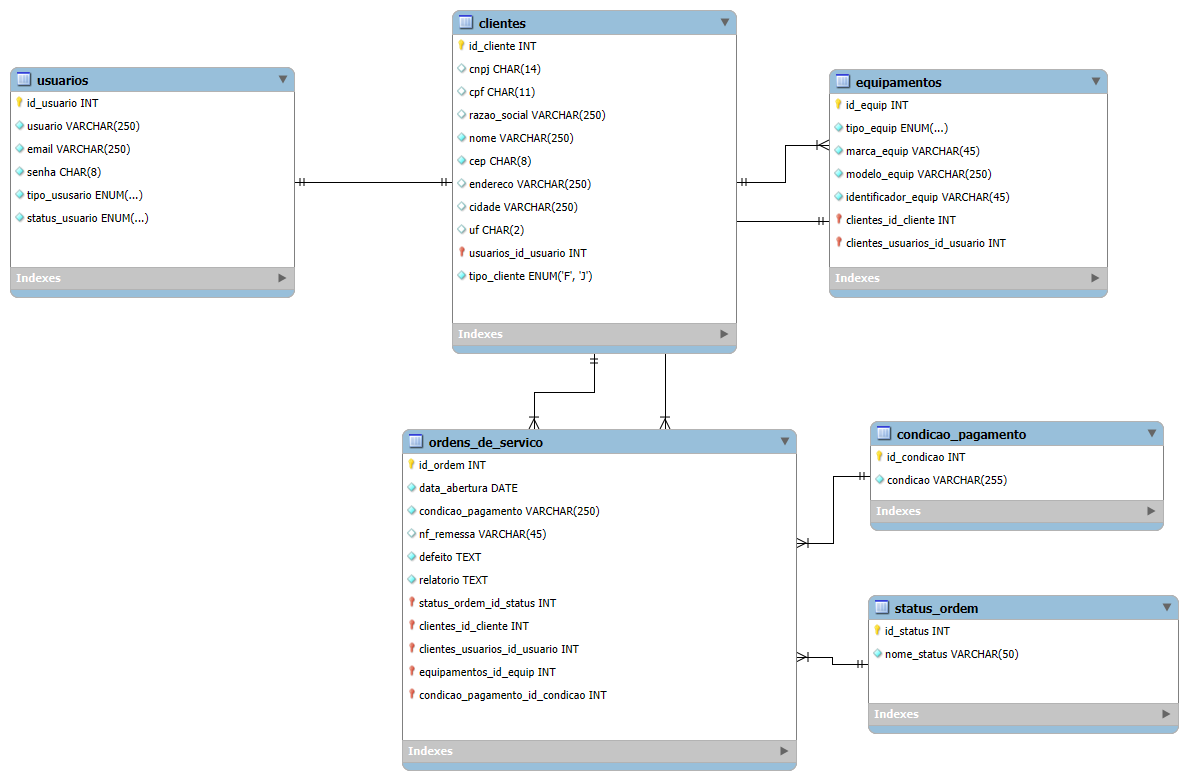
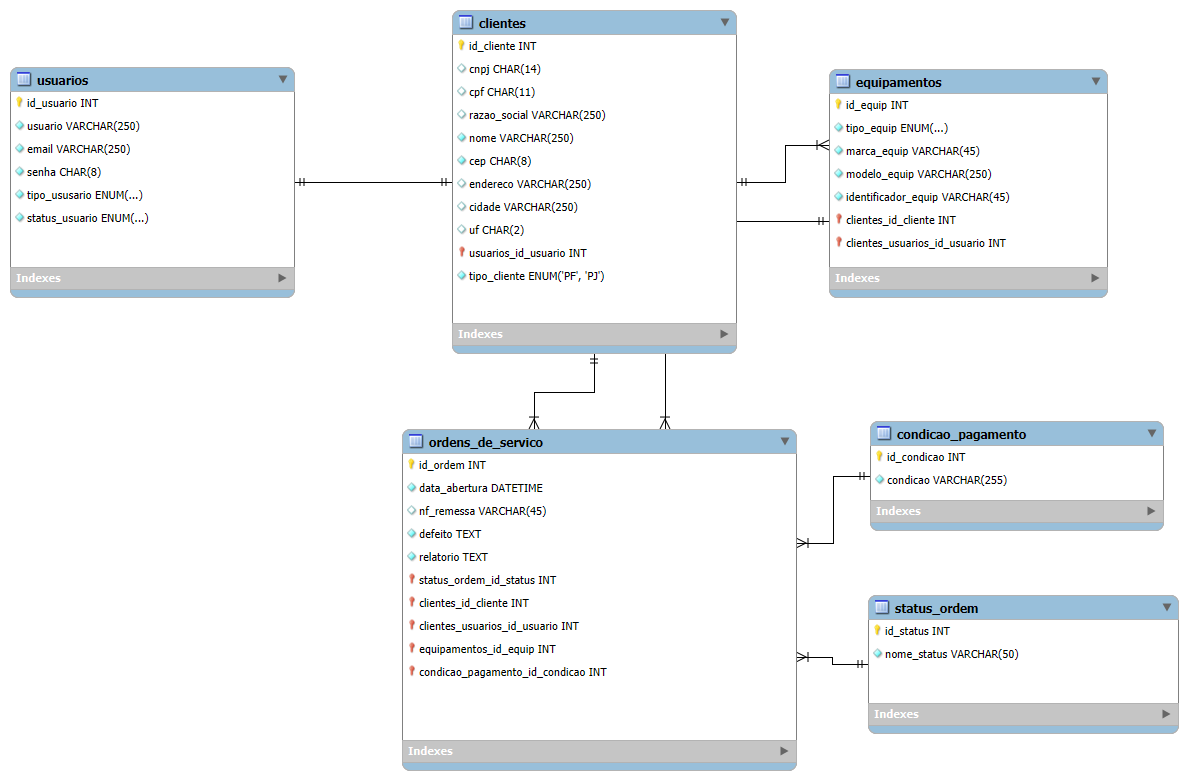
Commit 14: Inicializacao da Rota de Ordens de Servico: POST e updates no banco

Changed region(s): [[0.3426, 0.6154, 0.5295, 0.9231], [0.4672, 0.3385, 0.4983, 0.3692]]

diff --git a/src/routes/statusOrdem.js b/src/routes/statusOrdem.js
@@ -6,5 +6,189 @@ const {pool} = require(`../config/db`);
 
 const router = express.Router();
 
+/*
+CREATE TABLE status_ordem (
+	id_status_ordem INT AUTO_INCREMENT NOT NULL,
+    nome_status VARCHAR(250) NOT NULL UNIQUE,
+    
+    PRIMARY KEY (id_status_ordem)
+);
+*/
+
+//-----------------------------------------------------------------------------------------------------------------------------------
+
+router.post(`/`, async (req, res) => {
+    const {nome_status} = req.body;
+    
+    try{
+        if(nome_status.trim() === ``){
+            return res.status(400).json({error: `O campo 'Nome Status' é obrigatório.`});
+        }
+
+        await pool.execute(`INSERT INTO status_ordem (nome_status) VALUES (?)`, [nome_status]);
+        return res.status(201).json({message: `Status de ordem criado com sucesso.`});
+        
+    }catch(error){
+        console.error(`Erro ao criar status de ordem:`, error);
+        return res.status(500).json({error: `Erro ao criar status de ordem.`});
+    }
+});
+
+//-----------------------------------------------------------------------------------------------------------------------------------
+
+router.get(`/`, async (req, res) => {
+    try{
+        const [result] = await pool.execute(`SELECT * FROM status_ordem`);
+
+        if(result.length === 0){
+            return res.status(404).json({error: `Nenhum status de ordem encontrado.`});
+        }
+
+        return res.status(200).json(result);
+
+    }catch(error){
+        console.error(`Erro ao listar status de ordem:`, error);
+        return res.status(500).json({error: `Erro ao listar status de ordem.`});
+    }
+});
+
+router.get(`/:id`, async (req, res) => {
+    const {id} = req.params;
+    
+    try{
+        const [result] = await pool.execute(`SELECT * FROM status_ordem WHERE id_status_ordem = ?`, [id]);
+        
+        if(result.length === 0){
+            return res.status(404).json({error: `Nenhum status de ordem com id ${id} encontrado.`});
+        }
+
+        return res.status(200).json(result);
+
+    }catch(error){
+        console.error(`Erro ao listar status de ordem:`, error);
+        return res.status(500).json({error: `Erro ao listar status de ordem.`});
+    }
+});
+
+router.get(`/nome-status/:nome`, async (req, res) => {
+    const {nome} = req.params;
+    
+    try{
+        const [result] = await pool.execute(`SELECT * FROM status_ordem WHERE nome_status = ?`, [nome]);
+        
+        if(result.length === 0){
+            return res.status(404).json({error: `Nenhum status de ordem com nome ${nome} encontrado.`});
+        }
+
+        return res.status(200).json(result);
+
+    }catch(error){
+        console.error(`Erro ao listar status de ordem:`, error);
+        return res.status(500).json({error: `Erro ao listar status de ordem.`});
+    }
+});
+
+//-----------------------------------------------------------------------------------------------------------------------------------
+
+router.delete(`/deletar-status-id/:id`, async (req, res) => {
+    const {id} = req.params;
+    
+    try{
+        const [result] = await pool.execute(`SELECT * FROM status_ordem WHERE id_status_ordem = ?`, [id]);
+        
+        if(result.length === 0){
+            return res.status(404).json({error: `Nenhum status de ordem com id ${id} encontrado.`});
+        }
+
+        await pool.execute(`DELETE FROM status_ordem WHERE id_status_ordem = ?`, [id]);
+
+        return res.status(200).json({message: `Status de ordem deletado com sucesso.`});
+
+    }catch(error){
+        console.error(`Erro ao deletar status de ordem:`, error);
+        return res.status(500).json({error: `Erro ao deletar status de ordem.`});
+    }
+});
+
+router.delete(`/deletar-status-nome/:nome`, async (req, res) => {
+    const {nome} = req.params;
+    
+    try{
+        const [result] = await pool.execute(`SELECT * FROM status_ordem WHERE nome_status = ?`, [nome]);
+        
+        if(result.length === 0){
+            return res.status(404).json({error: `Nenhum status de ordem com nome ${nome} encontrado.`});
+        }
+
+        await pool.execute(`DELETE FROM status_ordem WHERE nome_status = ?`, [nome]);
+        
+        return res.status(200).json({message: `Status de ordem deletado com sucesso.`});
+
+    }catch(error){
+        console.error(`Erro ao deletar status de ordem:`, error);
+        return res.status(500).json({error: `Erro ao deletar status de ordem.`});
+    }
+});
+
+//-----------------------------------------------------------------------------------------------------------------------------------
+
+router.put(`/atualizar-status-id/:id`, async (req, res) => {
+    const {id} = req.params;
+    const {nome_status} = req.body;
+    
+    try{
+        const [result] = await pool.execute(`SELECT * FROM status_ordem WHERE id_status_ordem = ?`, [id]);
+        
+        if(result.length === 0){
+            return res.status(404).json({error: `Nenhum status de ordem com id ${id} encontrado.`});
+        }
+
+        if(nome_status == result[0].nome_status){
+            return res.status(400).json({error: `Nome do status é o mesmo de antes. Alteração inválida.`});
+        }
+
+        if(!nome_status || nome_status.trim() === ''){
+            return res.status(400).json({error: `Nenhum nome foi escolhido para atualizar. Preencha o campo corretamente para efetuar a atualização.`});
+        }
+
+        await pool.execute(`UPDATE status_ordem SET nome_status = ? WHERE id_status_ordem = ?`, [nome_status, id]);
+        
+        return res.status(200).json({message: `Status de ordem atualizado com sucesso. Antes ${result[0].nome_status}, atualizado para ${nome_status}.`});
+
+    }catch(error){
+        console.error(`Erro ao atualizar status de ordem:`, error);
+        return res.status(500).json({error: `Erro ao atualizar status de ordem.`});
+    }
+});
+
+router.put(`/atualizar-status-nome/:nome`, async (req, res) => {
+    const {nome} = req.params;
+    const {nome_status} = req.body;
+    
+    try{
+        const [result] = await pool.execute(`SELECT * FROM status_ordem WHERE nome_status = ?`, [nome]);
+        
+        if(result.length === 0){
+            return res.status(404).json({error: `Nenhum status de ordem com nome ${nome} encontrado.`});
+        }
+
+        if(nome_status == result[0].nome_status){
+            return res.status(400).json({error: `Nome do status é o mesmo de antes. Alteração inválida.`});
+        }
+
+        if(!nome_status || nome_status.trim() === ''){
+            return res.status(400).json({error: `Nenhum nome foi escolhido para atualizar. Preencha o campo corretamente para efetuar a atualização.`});
+        }
+
+        await pool.execute(`UPDATE status_ordem SET nome_status = ? WHERE nome_status = ?`, [nome_status, nome]);
+        
+        return res.status(200).json({message: `Status de ordem atualizado com sucesso. Antes ${result[0].nome_status}, atualizado para ${nome_status}.`});
+
+    }catch(error){
+        console.error(`Erro ao atualizar status de ordem:`, error);
+        return res.status(500).json({error: `Erro ao atualizar status de ordem.`});
+    }
+});
+
 module.exports = router;
 

diff --git a/src/routes/ordensServico.js b/src/routes/ordensServico.js
@@ -9,9 +9,10 @@ const router = express.Router();
 module.exports = router;
 
 /*
-ordens_servico (
+CREATE TABLE ordens_servico (
 	id_ordem INT AUTO_INCREMENT NOT NULL,
-    data_abertura DATE NOT NULL,
+    data_abertura DATETIME DEFAULT CURRENT_TIMESTAMP,
+    id_condicao_pagamento INT NOT NULL,
     nf_remessa VARCHAR(250),
     defeito TEXT NOT NULL,
     relatorio_tecnico TEXT,
@@ -19,23 +20,101 @@ ordens_servico (
     id_cliente INT NOT NULL,
     id_tecnico INT NOT NULL,
     id_status_ordem INT NOT NULL,
-    id_condicao_pagamento INT NOT NULL,
     
     PRIMARY KEY (id_ordem),
     FOREIGN KEY (id_equipamento) REFERENCES equipamentos(id_equipamento),
     FOREIGN KEY (id_cliente) REFERENCES clientes(id_cliente),
     FOREIGN KEY (id_tecnico) REFERENCES usuarios(id_usuario),
     FOREIGN KEY (id_status_ordem) REFERENCES status_ordem (id_status_ordem),
-    FOREIGN KEY (id_condicao_pagamento) REFERENCES condicao_pagamento (id_condicao_pagamento)
+    FOREIGN KEY (id_condicao_pagamento) REFERENCES condicao_pagamento (id_condicao)
 );
 */
 
 //-----------------------------------------------------------------------------------------------------------------------------------
 
 router.post(`/`, async (req, res) => {
-    const {data_abertura, condicao_pagamento, nf_remessa, defeito, relatorio_tecnico, id_equipamento, id_cliente, id_tecnico, id_status_ordem} = req.body;
-    
+    const {id_cliente, id_equipamento, id_tecnico, nf_remessa, id_condicao_pagamento, defeito, relatorio_tecnico, id_status_ordem} = req.body;
+
     try{
+        //CLIENTE
+        if(id_cliente === undefined || id_cliente === null || String(id_cliente).trim() === ''){
+            return res.status(400).json({error: `ID do cliente é obrigatório.`});
+        }
+
+        const [resultCliente] = await pool.execute(`SELECT * FROM clientes WHERE id_cliente = ?`, [id_cliente]);
+        if (resultCliente.length === 0) {
+            return res.status(404).json({error: `Cliente não encontrado.`});
+        }
+
+
+        //EQUIPAMENTO
+        if(id_equipamento === undefined || id_equipamento === null || String(id_equipamento).trim() === '') {
+            return res.status(400).json({error: `ID do equipamento é obrigatório.`});
+        }
+        
+        const [resultEquipamento] = await pool.execute(`SELECT * FROM equipamentos WHERE id_equipamento = ?`, [id_equipamento]);
+        if (resultEquipamento.length === 0) {
+            return res.status(404).json({error: `Equipamento não encontrado.`});
+        }
+
+        //TECNICO
+        if(id_tecnico === undefined || id_tecnico === null || String(id_tecnico).trim() === '') {
+            return res.status(400).json({error: `ID do técnico é obrigatório.`});
+        }
+        
+        const [resultTecnico] = await pool.execute(`SELECT * FROM usuarios WHERE id_usuario = ?`, [id_tecnico]);
+        if (resultTecnico.length === 0) {
+            return res.status(404).json({error: `Técnico não encontrado.`});
+        }
+
+
+        //NF REMESSA
+        if(nf_remessa && nf_remessa.trim() !== ``){
+            if (!/^[0-9]+$/.test(nf_remessa)) {
+                return res.status(400).json({ error: `O campo 'NF Remessa' deve conter apenas números.` });
+            }
+
+            const [resultNfRemessa] = await pool.execute(`SELECT * FROM ordens_servico WHERE nf_remessa = ?`, [nf_remessa]);
+            if (resultNfRemessa.length > 0) {
+                return res.status(400).json({error: `Já existe uma ordem de serviço com a mesma NF/Remessa.`});
+            }
+
+        }
+
+        //CONDIÇÃO DE PAGAMENTO
+        if(id_condicao_pagamento === undefined || id_condicao_pagamento === null || String(id_condicao_pagamento).trim() === '') {
+            return res.status(400).json({error: `ID da condição de pagamento é obrigatório.`});
+        }
+
+        const [resultCondicaoPagamento] = await pool.execute(`SELECT * FROM condicao_pagamento WHERE id_condicao_pagamento = ?`, [id_condicao_pagamento]);
+        if (resultCondicaoPagamento.length === 0) {
+            return res.status(404).json({error: `Condição de pagamento não encontrada.`});
+        }
+
+
+        //DEFEITO
+        if(defeito.trim() == ``){
+            return res.status(400).json({error: `Defeito é obrigatório.`});
+        }
+
+        //STATUS ORDEM
+        if(id_status_ordem === undefined || id_status_ordem === null || String(id_status_ordem).trim() === '') {
+            return res.status(400).json({error: `ID do status da ordem é obrigatório.`});
+        }
+
+        const [resultStatusOrdem] = await pool.execute(`SELECT * FROM status_ordem WHERE id_status_ordem = ?`, [id_status_ordem]);
+        if (resultStatusOrdem.length === 0) {
+            return res.status(404).json({error: `Status da ordem não encontrado.`});
+        }
+
+        const[aberturaOrdem] = await pool.execute(`INSERT INTO ordens_servico (id_cliente, id_equipamento, id_tecnico, nf_remessa, id_condicao_pagamento, defeito, relatorio_tecnico, id_status_ordem) 
+            VALUES (?, ?, ?, ?, ?, ?, ?, ?)`, [id_cliente, id_equipamento, id_tecnico, nf_remessa, id_condicao_pagamento, defeito, relatorio_tecnico, id_status_ordem]);
+
+        res.status(201).json({
+            message: `Ordem de serviço criada com sucesso.`,
+            ordem: aberturaOrdem
+        });
+        
         
     }catch(error){
         console.error(`Erro ao criar ordem de serviço:`, error);

diff --git a/README.md b/README.md
@@ -76,7 +76,12 @@ API REST para gerenciamento de manutenção, desenvolvida em Node.js com Express
 - **DELETE** `/deletar-condicao-pagamento/descricao/:descricao` - Deleta condição de pagamento por descrição
 
 #### `/ordens-servico`
-- Em desenvolvimento
+- **POST** `/` - Criação de ordem de serviço
+  - Valida cliente, equipamento, técnico, condição de pagamento e status da ordem
+  - NF Remessa opcional (deve conter apenas números se fornecida)
+  - Defeito é obrigatório
+  - Relatório técnico opcional
+- Em desenvolvimento (outras rotas)
 
 #### `/status-ordem`
 - Em desenvolvimento